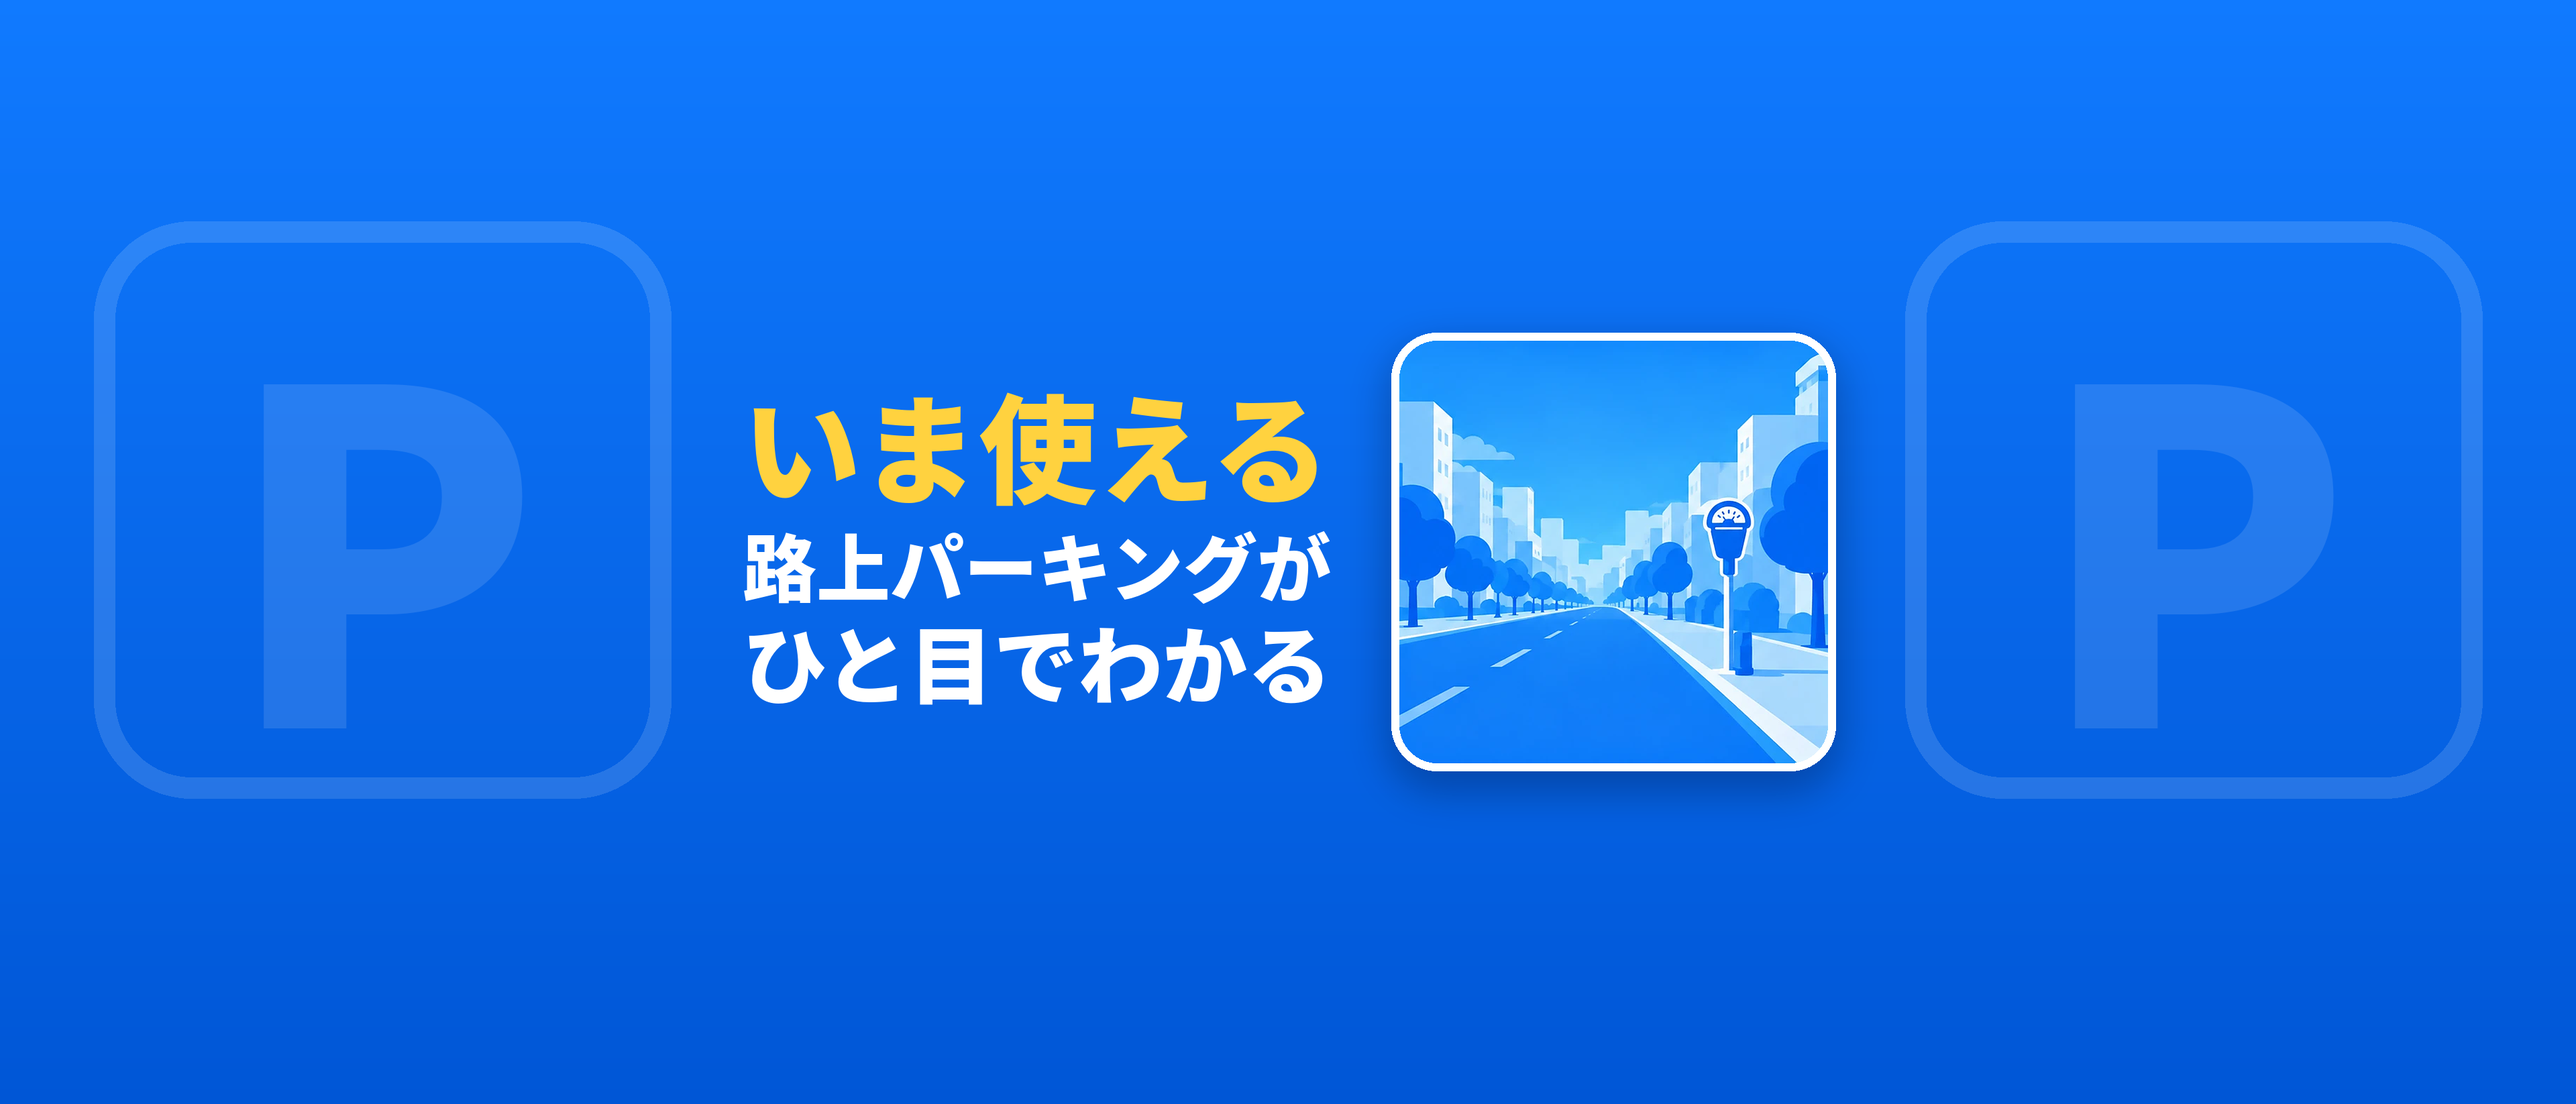
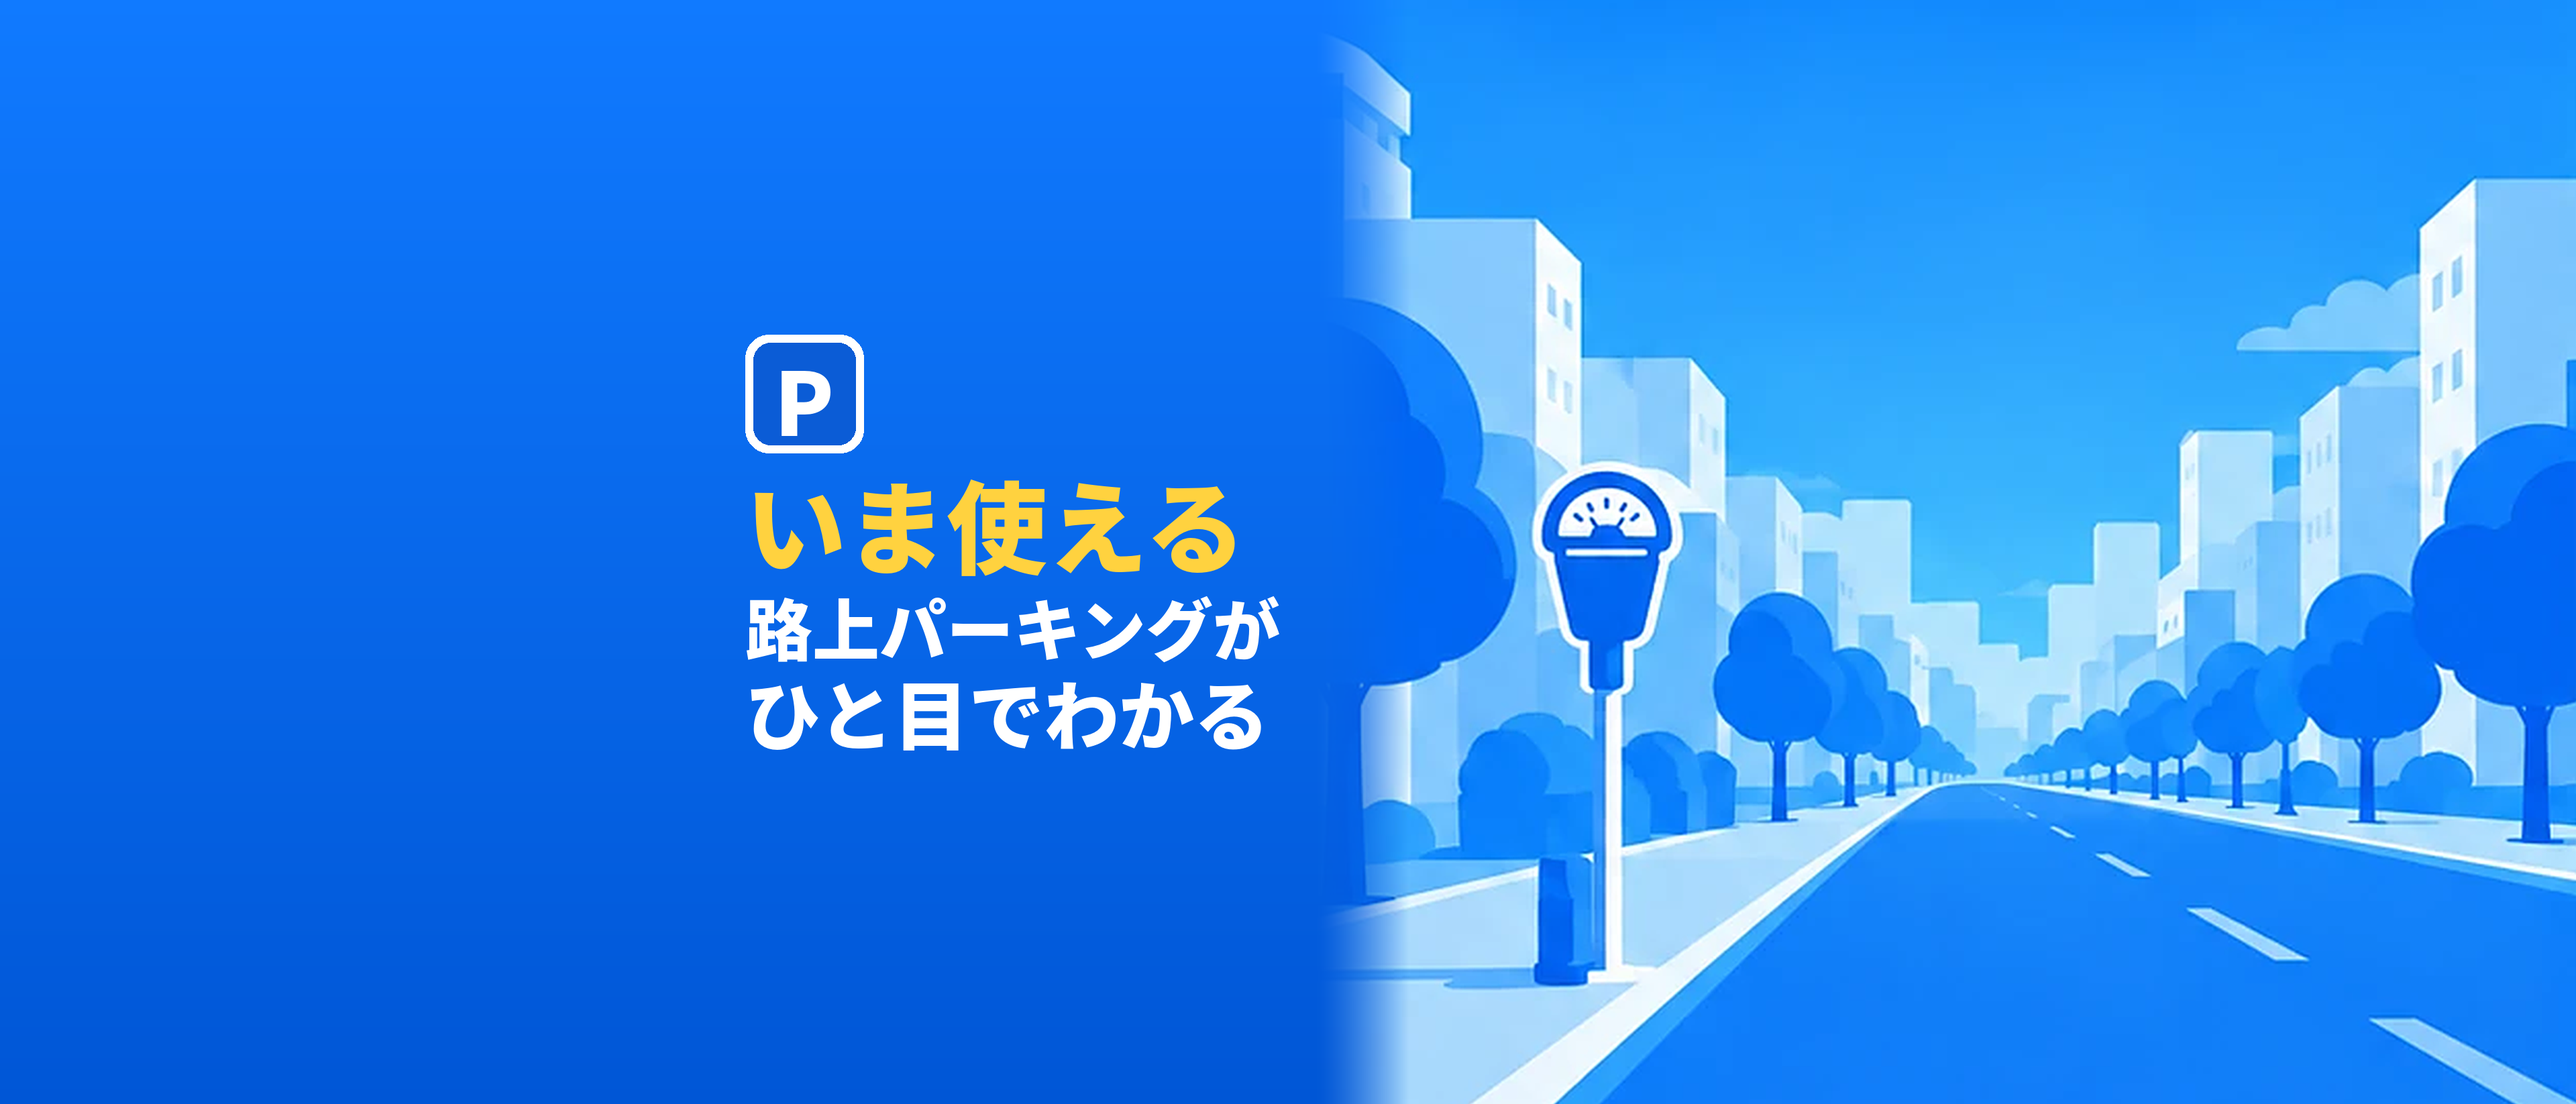
ヘッダアセットを作り直す：右に道路の絵を大きく、左に「P」と見出し
- 起動画面の街並みとメーターを右端に寄せて、高さいっぱいより大きく置く（下の手前の道路を少し切る）
- 左右を反転して、メーターを「必ず表示される範囲」の中に寄せる（--flip。反転しない版も作れる）
- 左に駐車場の標識の「P」と見出し。ぼかしや継ぎ足しはせず、絵の左の端だけ背景の青になじませる

Claude-Session: https://claude.ai/code/session_017tmsz114oRHaDqtC5w946x

diff --git a/store-assets/make_header_city.py b/store-assets/make_header_city.py
@@ -1,79 +1,76 @@
 """プロダクトページのヘッダアセット（3840x1646）を、起動画面の街並みとメーターのイラストから作る。
 
-usage: python3 store-assets/make_header_city.py <font_dir> <out.png>
+usage: python3 store-assets/make_header_city.py <font_dir> <out.png> [--flip]
 
-- 起動画面（ios/App/App/Assets.xcassets/Splash.imageset/splash-2732x2732.png）の本物の絵は、まん中の幅 1346px だけ。
-  「MeterMap」の文字より下の街並みを切り出し、ぼかしたり継ぎ足したりせず、角の丸い枠に入れてそのまま見せる。
-- 背景はスクリーンショットと同じ青のグラデーションに、駐車場の標識の「P」を薄く重ねる（make_store_assets.py と同じ色）。
-- 見出しと街並みの枠は、Apple の「必ず表示される範囲」（1646x661、x 1097・y 493）に入れる。
+- 右側：起動画面（ios/App/App/Assets.xcassets/Splash.imageset/splash-2732x2732.png）の「MeterMap」の文字より下の
+  街並みを、できるだけ大きく右端に寄せて置く（ぼかしや継ぎ足しはしない。左の端だけ、背景の青にすっとなじませる）。
+  --flip を付けると左右を反転し、メーターを文字の側（Apple の「必ず表示される範囲」の中）に寄せる。
+- 左側：駐車場の標識の「P」と見出し。どちらも「必ず表示される範囲」（1646x661、x 1097・y 493）に入れる。
+- 背景はスクリーンショットと同じ青のグラデーション。
 """
 import sys
 from pathlib import Path
 
-from PIL import Image, ImageDraw, ImageFilter, ImageFont
+from PIL import Image, ImageDraw, ImageFont
 
 ROOT = Path(__file__).resolve().parent.parent
 FONTS, OUT = Path(sys.argv[1]), Path(sys.argv[2])
+FLIP = '--flip' in sys.argv[3:]
 F_BLACK = str(FONTS / 'NotoSansCJK-Black.ttc')
 
 W, H = 3840, 1646
 SAFE = (1097, 493, 1097 + 1646, 493 + 661)
 BLUE_T, BLUE_B = (0x10, 0x7A, 0xFF), (0x00, 0x56, 0xD6)
 WHITE, YELLOW = (255, 255, 255), (0xFF, 0xD2, 0x3F)
+SIGN_BLUE = (0x0B, 0x5C, 0xD6)
 
 
 def font(size):
     return ImageFont.truetype(F_BLACK, size, index=0)
 
 
-# 背景：青のグラデーションと、薄い「P」の標識（表示範囲の外）
+# 背景：青のグラデーション
 canvas = Image.new('RGB', (1, H))
 for y in range(H):
     t = y / (H - 1)
     canvas.putpixel((0, y), tuple(round(a + (b - a) * t) for a, b in zip(BLUE_T, BLUE_B)))
 canvas = canvas.resize((W, H)).convert('RGBA')
-deco = Image.new('RGBA', (W, H), (0, 0, 0, 0))
-dd = ImageDraw.Draw(deco)
-for x, y, size in [(140, 330, 860), (2840, 330, 860)]:
-    dd.rounded_rectangle([x, y, x + size, y + size], size * 0.17, outline=(255, 255, 255, 34), width=round(size * 0.037))
-    dd.text((x + size / 2, y + size / 2 + size * 0.03), 'P', font=font(round(size * 0.8)), fill=(255, 255, 255, 30), anchor='mm')
-canvas.alpha_composite(deco)
 
-# 街並み：起動画面の「MeterMap」の文字より下を、そのまま切り出す
+# 右側：街並み（起動画面の「MeterMap」の文字より下）をできるだけ大きく、右端に寄せる
 splash = Image.open(ROOT / 'ios/App/App/Assets.xcassets/Splash.imageset/splash-2732x2732.png').convert('RGB')
 S = splash.width
 PW = round(618 * S / 1254)          # 本物の絵の幅（splash-from-design.py と同じ計算）
 X0 = (S - PW) // 2
 EDGE, TOP = 8, 1420                 # 左右の端の細い線を落とす／文字より下
 scene = splash.crop((X0 + EDGE, TOP, X0 + PW - EDGE, S))
+if FLIP:
+    scene = scene.transpose(Image.FLIP_LEFT_RIGHT)
+SX = 1960                           # 絵の左の端（これより左は文字と P）
+sw = W - SX
+sh = round(scene.height * sw / scene.width)
+pic = scene.resize((sw, sh), Image.LANCZOS).crop((0, 0, sw, H))   # 下（手前の道路）を切って高さを合わせる
+fade = Image.new('L', (sw, H), 255)
+fd = ImageDraw.Draw(fade)
+FADE = 140                          # 左の端だけ、背景の青に 140px でなじませる
+for x in range(FADE):
+    fd.line([(x, 0), (x, H)], fill=round(255 * (x / FADE) ** 1.5))
+canvas.paste(pic.convert('RGBA'), (SX, 0), fade)
 
-# 枠の大きさと置き場所（表示範囲の右側）
-FH = 630                            # 枠の高さ（白い縁を足して、表示範囲の高さ 661 に収める）
-FW = round(scene.width * FH / scene.height)
-BORDER, R = 12, 56
-fx = SAFE[2] - FW - 2 * BORDER - 6
-fy = SAFE[1] + (SAFE[3] - SAFE[1] - FH - 2 * BORDER) // 2
-pic = scene.resize((FW, FH), Image.LANCZOS)
-frame = Image.new('RGBA', (FW + 2 * BORDER, FH + 2 * BORDER), (0, 0, 0, 0))
-ImageDraw.Draw(frame).rounded_rectangle([0, 0, frame.width - 1, frame.height - 1], R + BORDER, fill=WHITE + (255,))
-mask = Image.new('L', (FW, FH), 0)
-ImageDraw.Draw(mask).rounded_rectangle([0, 0, FW - 1, FH - 1], R, fill=255)
-frame.paste(pic, (BORDER, BORDER), mask)
-shadow = Image.new('RGBA', (W, H), (0, 0, 0, 0))
-ImageDraw.Draw(shadow).rounded_rectangle([fx, fy + 24, fx + frame.width, fy + frame.height + 24], R + BORDER, fill=(0, 20, 70, 90))
-canvas.alpha_composite(shadow.filter(ImageFilter.GaussianBlur(30)))
-canvas.alpha_composite(frame, (fx, fy))
-
-# 見出し：表示範囲の左側（枠の左まで）
-lines = [[('いま使える', font(176), YELLOW)],
-         [('路上パーキングが', font(110), WHITE)],
-         [('ひと目でわかる', font(126), WHITE)]]
-gap = 14
-heights = [round(max(f.size for _, f, _ in r) * 1.12) for r in lines]
-block = sum(heights) + gap * (len(lines) - 1)
-tx0, tx1 = SAFE[0] + 10, fx - 50
-y = SAFE[1] + (SAFE[3] - SAFE[1] - block) // 2
+# 左側：駐車場の標識の「P」と見出し（「必ず表示される範囲」の中）
 d = ImageDraw.Draw(canvas)
+P = 176
+px, py = SAFE[0] + 14, SAFE[1] + 6
+d.rounded_rectangle([px, py, px + P, py + P], round(P * 0.2), fill=WHITE)
+d.rounded_rectangle([px + 12, py + 12, px + P - 12, py + P - 12], round(P * 0.15), fill=SIGN_BLUE)
+d.text((px + P / 2, py + P / 2 + 6), 'P', font=font(round(P * 0.74)), fill=WHITE, anchor='mm')
+
+lines = [[('いま使える', font(150), YELLOW)],
+         [('路上パーキングが', font(100), WHITE)],
+         [('ひと目でわかる', font(112), WHITE)]]
+gap = 10
+heights = [round(max(f.size for _, f, _ in r) * 1.12) for r in lines]
+tx0 = SAFE[0] + 14
+y = py + P + 34
 widths = []
 for runs, lh in zip(lines, heights):
     big = max(f.size for _, f, _ in runs)
@@ -84,10 +81,13 @@ for runs, lh in zip(lines, heights):
         d.text((x, base), t, font=f, fill=c, anchor='ls')
         x += f.getlength(t)
     y += lh + gap
-assert max(widths) <= tx1 - tx0, (widths, tx1 - tx0)
-assert fx >= SAFE[0] and fx + frame.width <= SAFE[2] and fy >= SAFE[1] and fy + frame.height <= SAFE[3]
+y -= gap
+assert y <= SAFE[3], ('text bottom', y)
+assert tx0 + max(widths) <= SX + 20, ('text width', widths)
 
 out = canvas.convert('RGB')
 assert out.size == (W, H)
 out.save(OUT, 'PNG', optimize=True)
-print(OUT, out.size, 'frame', (fx, fy, frame.width, frame.height), 'text widths', [round(w) for w in widths], 'room', tx1 - tx0)
+meter_x = SX + round((1 - 0.764 if FLIP else 0.764) * sw)
+print(OUT, out.size, 'flip' if FLIP else 'normal', 'scene', (sw, sh), 'text bottom', y, 'meter x', meter_x,
+      'inside safe' if SAFE[0] <= meter_x <= SAFE[2] else 'OUTSIDE safe')

diff --git a/store-assets/README.md b/store-assets/README.md
@@ -14,7 +14,7 @@ App Store Connect に入れる画像です。2026年11月18日に作りました
 - 「iPhone Duo」の欄（外側 1398 × 2034、内側 2007 × 2853）は、2026年11月の時点では入れなくても提出できる（iOS 27.1 SDK 以降でビルドしたものは2027年4月から必要になる、とする解説がある）。iPad・Apple Watch の欄は、iPhone だけのアプリなので要らない。
 - ヘッダと検索結果の文字は、Apple の決めた「必ず表示される範囲」に入れています。ヘッダは 1646 × 661（x 1097, y 493）、検索結果は 2168 × 1030（x 836, y 765）です（[Creative assets specifications](https://developer.apple.com/help/app-store-connect/reference/app-information/creative-assets-specifications/)）。
 - スクリーンショットと検索結果アセットの背景は、起動画面の色に近い青のグラデーションに、駐車場の標識の「P」を薄く重ねています。
-- ヘッダアセットは、起動画面の街並みとメーターのイラスト（`ios/App/App/Assets.xcassets/Splash.imageset/`）を、ぼかしたり継ぎ足したりせず、角の丸い白い枠に入れて見出しと並べています。背景は、スクリーンショットと同じ青と薄い「P」です。見出しと枠は、どちらも「必ず表示される範囲」に入れています。
+- ヘッダアセットは、右側に起動画面の街並みとメーターのイラスト（`ios/App/App/Assets.xcassets/Splash.imageset/`）をできるだけ大きく置き、左側に駐車場の標識の「P」と見出しを置いています。イラストは左右を反転して、メーターを Apple の「必ず表示される範囲」の中（文字の側）に寄せています（反転しない版は `--flip` を付けずに作る）。ぼかしや継ぎ足しはしていません。
 - 価格・URL・ほかのサービスのロゴ・裏付けのない表現（「No.1」など）は入れません（[App Store Asset Best Practices](https://developer.apple.com/app-store/asset-best-practices/)）。
 
 並び順：01 いま使える → 02 時間も料金も → 03 目的地から → 04 すぐ案内 → 05 タイマー（プレミアム） → 06 お気に入り（プレミアム）。無料で使える機能を先に、プレミアムの機能を最後に並べています。
@@ -24,7 +24,7 @@ App Store Connect に入れる画像です。2026年11月18日に作りました
 ヘッダアセットだけは別のスクリプトです。
 
 ```sh
-python3 store-assets/make_header_city.py /usr/share/fonts/opentype/noto store-assets/header_3840x1646.png
+python3 store-assets/make_header_city.py /usr/share/fonts/opentype/noto store-assets/header_3840x1646.png --flip
 ```
 
 そのほか（スクリーンショット・検索結果アセット）：
